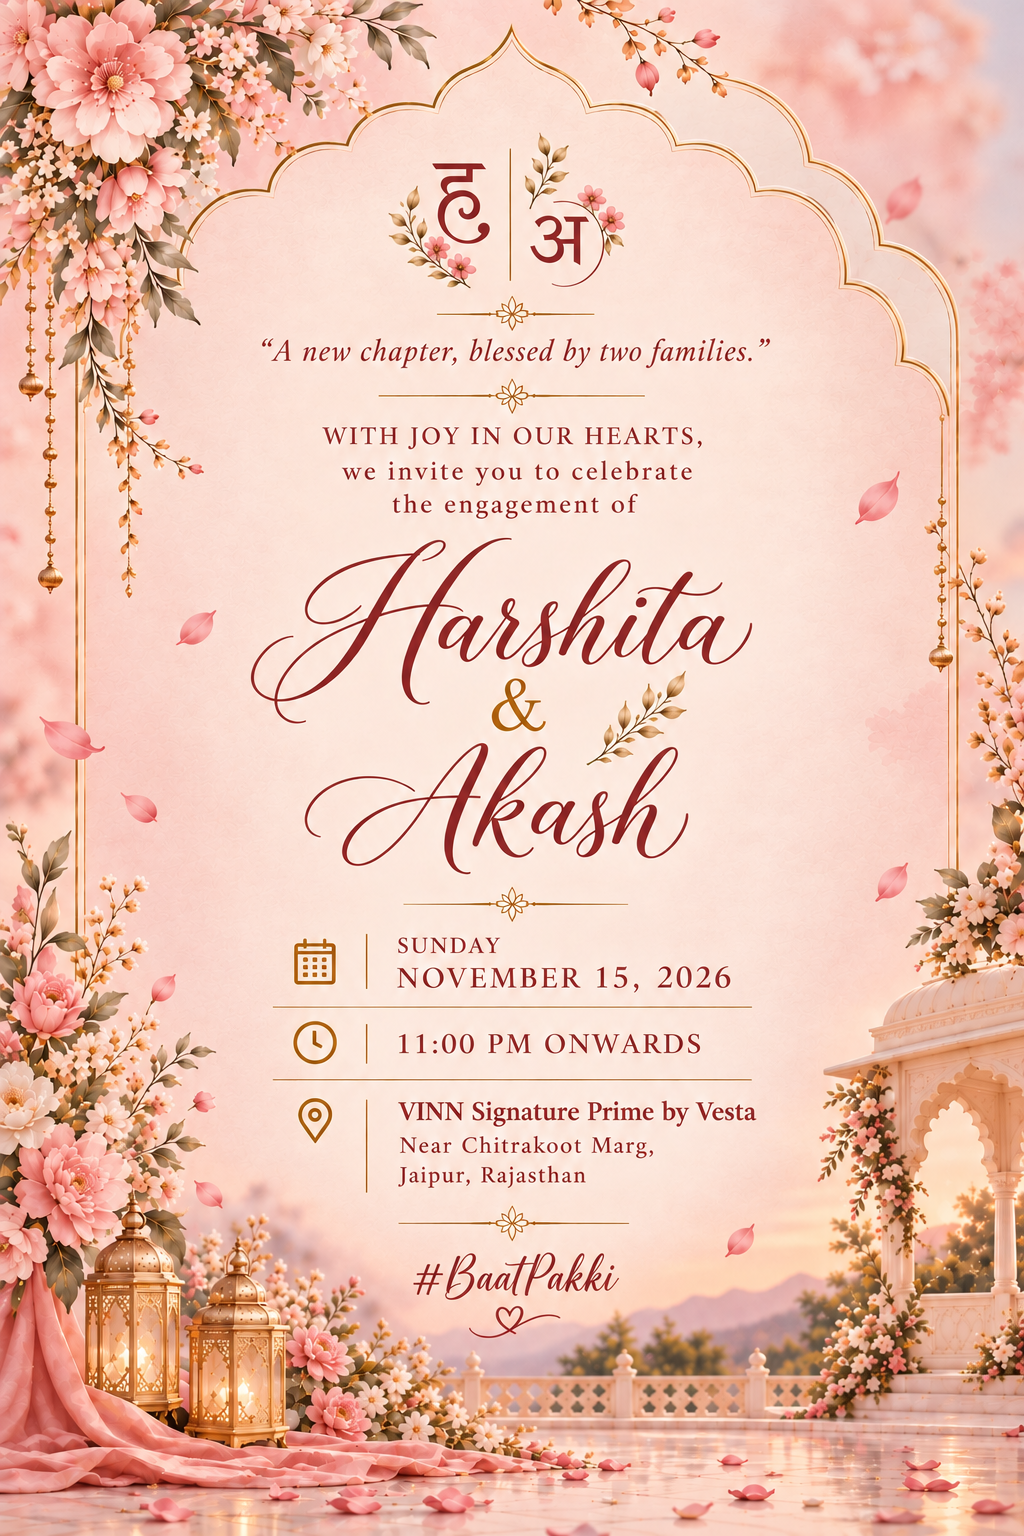
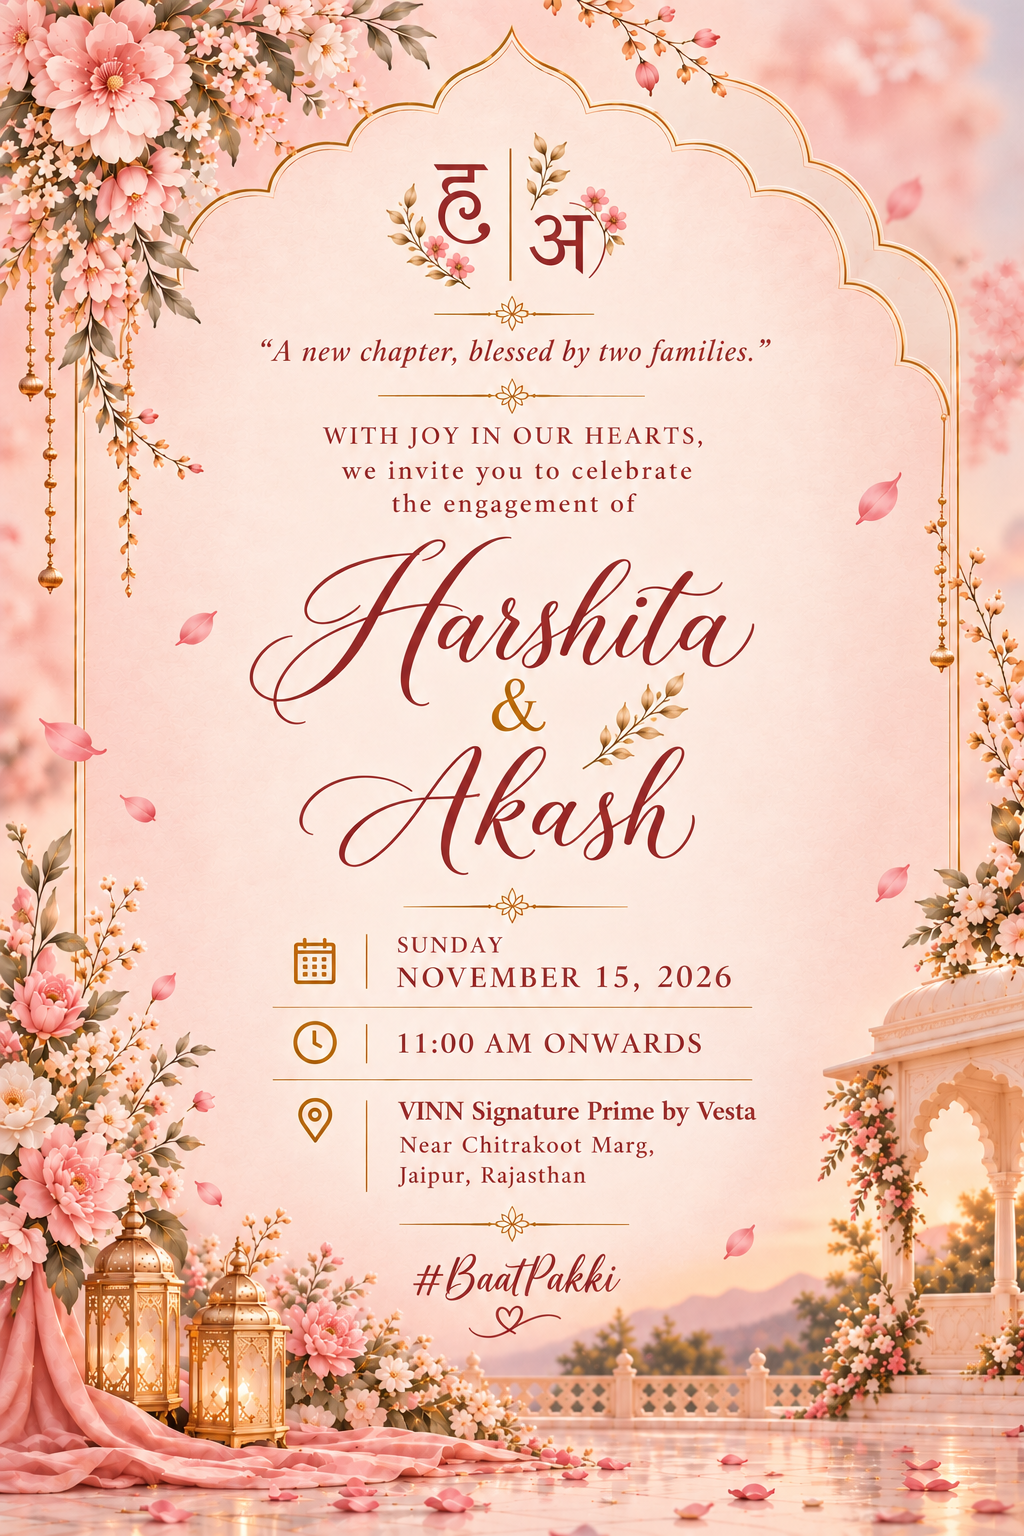
Changed timimings

diff --git a/index.html b/index.html
@@ -10,7 +10,7 @@
     content="With joy in our hearts, we invite you to celebrate the engagement ceremony of Harshita &amp; Akash in Jaipur on Sunday, November 15, 2026. #BaatPakki">
   <meta property="og:title" content="Harshita &amp; Akash — Engagement Invitation">
   <meta property="og:description"
-    content="Sunday, November 15, 2026 • 11:00 PM IST • VINN Signature Prime by Vesta, Jaipur.">
+    content="Sunday, November 15, 2026 • 11:00 AM IST • VINN Signature Prime by Vesta, Jaipur.">
   <meta property="og:type" content="website">
 
   <!-- Favicon -->
@@ -82,7 +82,7 @@
       </p>
 
       <div class="event-highlight">Engagement Celebration</div>
-      <div class="date-place">Sunday, November 15, 2026 • 11:00 PM IST • Jaipur</div>
+      <div class="date-place">Sunday, November 15, 2026 • 11:00 AM IST • Jaipur</div>
 
       <div class="scroll-prompt" aria-hidden="true">
         <span>Scroll</span>
@@ -122,7 +122,7 @@
 
         <p
           style="font-family: var(--font-serif); font-size: 1.35rem; color: var(--color-blush-light); margin-top: 0.8rem; font-style: italic;">
-          Sunday, November 15, 2026 • 11:00 PM IST Onwards
+          Sunday, November 15, 2026 • 11:00 AM IST Onwards
         </p>
 
         <div class="delicate-divider"></div>
@@ -150,7 +150,7 @@
         <h2 class="card-heading">Until We Celebrate</h2>
         <p
           style="font-size: 0.85rem; letter-spacing: 0.15em; text-transform: uppercase; color: var(--color-gold-light); margin-top: 0.4rem; font-weight: 300;">
-          Sunday, November 15, 2026 • 11:00 PM IST
+          Sunday, November 15, 2026 • 11:00 AM IST
         </p>
 
         <div class="countdown-row" role="timer" aria-live="polite">

diff --git a/js/app.js b/js/app.js
@@ -5,8 +5,8 @@
 
 document.addEventListener('DOMContentLoaded', () => {
   // 1. Live Countdown Timer synced to Indian Standard Time (IST)
-  // Sunday, November 15, 2026 at 11:00 PM IST (23:00 IST = 17:30 UTC)
-  const targetEpoch = Date.UTC(2026, 10, 15, 17, 30, 0);
+  // Sunday, November 15, 2026 at 11:00 AM IST (05:30 UTC)
+  const targetEpoch = Date.UTC(2026, 10, 15, 5, 30, 0);
 
   const daysEl = document.getElementById('cdDays');
   const hoursEl = document.getElementById('cdHours');
@@ -45,7 +45,7 @@ document.addEventListener('DOMContentLoaded', () => {
     "With joy in our hearts, we invite you to celebrate the engagement ceremony of Harshita & Akash. Venue: VINN Signature Prime by Vesta, Near Chitrakoot Marg, Jaipur."
   );
   const eventLocation = encodeURIComponent("VINN Signature Prime by Vesta, Near Chitrakoot Marg, Jaipur, Rajasthan");
-  const googleCalUrl = `https://calendar.google.com/calendar/render?action=TEMPLATE&text=${eventTitle}&dates=20261115T173000Z/20261115T213000Z&details=${eventDetails}&location=${eventLocation}`;
+  const googleCalUrl = `https://calendar.google.com/calendar/render?action=TEMPLATE&text=${eventTitle}&dates=20261115T053000Z/20261115T093000Z&details=${eventDetails}&location=${eventLocation}`;
 
   const btnGoogleCal = document.getElementById('btnGoogleCal');
   const btnGoogleCalMiddle = document.getElementById('btnGoogleCalMiddle');
